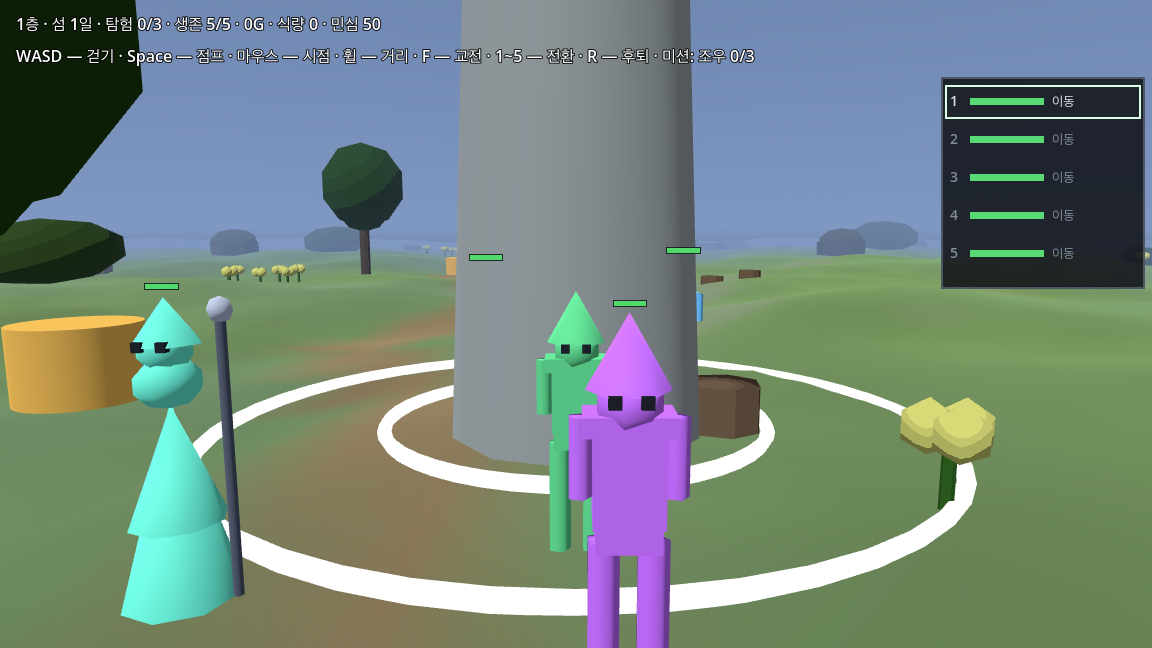
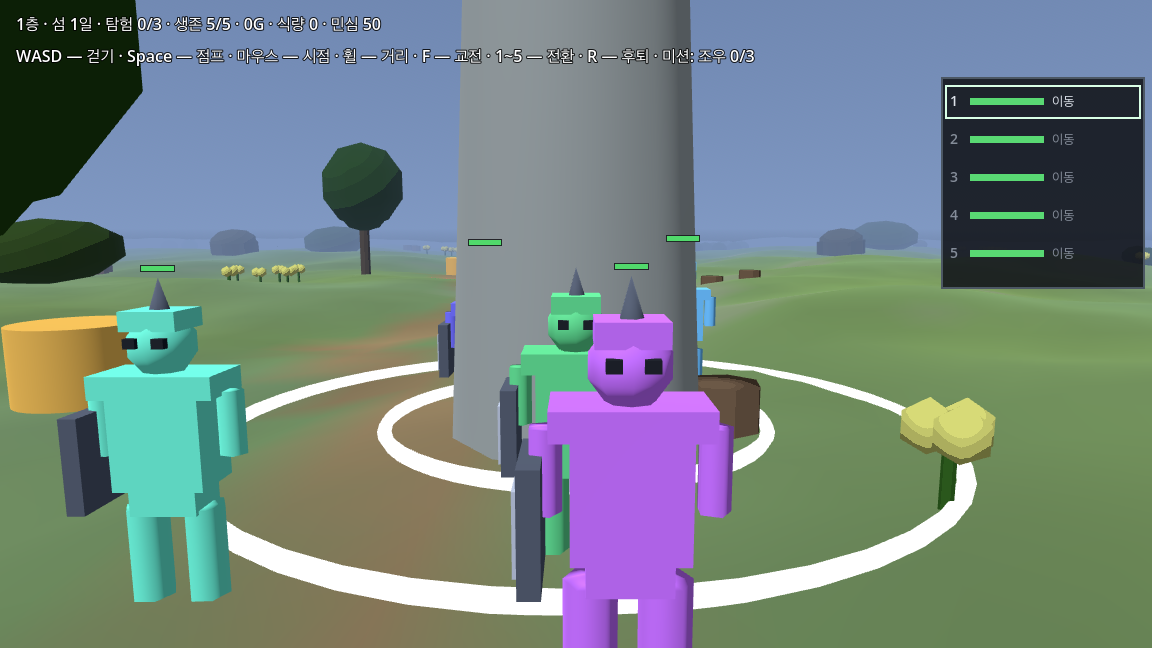
파티 직업을 역할로 나눠 뽑고 엔딩 패널 촬영을 붙인다
`keyword_jobs` 가 트리 앞에서 다섯을 집어 전원이 선봉이 되던 것을, 역할별로
한 명씩 먼저 뽑게 바꾼다. 역할 순서와 역할 안 순서를 시드로 섞어 같은 판은
같은 파티가 되고(세이브가 시드로 영웅을 다시 만든다), 역할이 모자라면
돌아가며 두 번째를 채운다.

엔딩 패널을 찍는 `shot_ending` 과 화면 캡처, 파티가 3장 곱을 받는지 보는
`test_run_state` 검사를 함께 넣는다.

검증(새 워크트리, 이 커밋 그대로):
  tools/gate_all.py     → GATE ALL OK ([PASS] 29)
  ./tools/test_godot.sh → 586 tests, 586 passing

편집은 이 커밋 이후에도 이어진다.

Generated with Codebuff 🤖

diff --git a/docs/design/이데아_문턱_엔딩전투_설계.md b/docs/design/이데아_문턱_엔딩전투_설계.md
@@ -119,8 +119,9 @@ godot --headless --path godot -s tools/floor_report.gd -- --gk --grade=7 --party
 | `godot/core/floor_run.gd` | `build_gatekeeper` 가 바이옴을 넘긴다 — 편성도 같은 선택을 따른다 |
 | `godot/core/field_state.gd` | 문턱층에서 `engage()` 가 문지기 판을 연다 · `mission_done()` = 격파(문지기 없으면 통과) · `next_floor()` 가 그 값을 읽는다 · `claim_gatekeeper_loot()` 이 첫 격파 전리품을 정한다 · `ending`·`rewarded` 를 저장·복원한다 · `floor_progress()` 로 HUD 표기 |
 | `godot/core/save.gd` | `RUN_KEYS` 에 `ending`·`rewarded` — 화이트리스트가 새 키를 막지 않게 |
-| `godot/game/main/main.tscn` | `Hud/EndingPanel` — 문턱을 넘은 순간에만 뜨는 화면(제목·한 줄·R 안내) |
-| `godot/game/main/main.gd` | F 의도 — 조우 접촉이 없어도 `gatekeeper_ready()` 면 교전 · `first_clear` 면 `loot.gold` 를 지갑에 넣는다. HUD 는 `탐험 0/3` 대신 문지기 이름 |
+| `godot/game/main/main.tscn` | `Hud/EndingPanel` — 문턱을 넘은 순간에만 뜨는 화면(제목·요약 한 줄·R 안내 · 배경 딤 0.9) |
+| `godot/tools/shot_ending.gd` | 엔딩 상태를 만들어 화면을 `godot/screenshots/ending_panel.png` 로 남기는 하네스 |
+| `godot/game/main/main.gd` | F 의도 — 조우 접촉이 없어도 `gatekeeper_ready()` 면 교전 · `first_clear` 면 `loot.gold` 를 지갑에 넣는다 · 엔딩 화면을 띄우고 마지막 판 요약(`last_gatekeeper`)을 적는다. HUD 는 `탐험 0/3` 대신 문지기 이름 |
 | `godot/tools/floor_report.gd` | `--gk` 도 바이옴을 넘긴다 — 130 측정이 정본을 따른다 |
 
 **바뀌지 않은 것**: `explore.gd`(이미 조우 0) · `day.gd`(하루 루프는 0조우라 그냥 안 돈다) · `run_state.gd`(측정 심) · `data/` 전부.
@@ -131,14 +132,15 @@ godot --headless --path godot -s tools/floor_report.gd -- --gk --grade=7 --party
 - `test_floor_run` — `build_gatekeeper(130)` 이 무문 1체
 - `test_field_party` — 129 즉시 통과·다음 층 · 128 은 격파 전 진행 없음·F 가 판을 엶 · 격파했을 때만 `mission_done` · 130 스냅샷 이름 · 126 첫 격파 지급액 3,410 과 두 번째 격파 빈손
 - `test_save` — 126 격파 저장본을 불러와도 전리품 빈손 · 130 엔딩 저장본은 문지기가 다시 서지 않고 힌트가 문턱을 알린다 · 화이트리스트가 `ending`·`rewarded` 를 통과
-- `test_main` — 엔딩 화면은 처음엔 숨고 문턱 상태에서 한 번만 뜬다 · R 이 화면을 닫고 1층 새 런을 연다
+- `test_main` — 엔딩 화면은 처음엔 숨고 문턱 상태에서 한 번만 뜬다 · 요약 줄이 턴·생존·전리품을 적는다 · R 이 화면을 닫고 1층 새 런을 연다
+- `test_field_party` — 126 판이 `last_gatekeeper` 에 이름·턴·생존·전리품을 남긴다
 
 **아직 안 넣은 것**
 
 | 것 | 왜 지금 안 넣나 |
 |---|---|
 | 영혼·exp 지급 | 받을 곳이 없다 — 지갑은 `gold` 하나뿐이다. 로그에만 적는다 |
-| 엔딩 연출 | 화면은 제목·한 줄·R 안내까지다 — 컷신·BGM·업적은 별개 |
+| 엔딩 연출 | 화면은 제목·요약 한 줄·R 안내까지다 — 컷신·BGM·업적은 별개 |
 | 130 격파 후 버튼 | `MAX_FLOOR` 라 `next_floor()` 가 false — 지금은 문턱 상태에서 멈춘다 |
 | 패배 시 층 유지 재도전 | 기존 R 은 전멸 시 1층 재시작이다. 이 층만 재도전하게 하려면 부활 규칙이 필요하다 |
 
@@ -165,4 +167,6 @@ godot --headless --path godot -s tools/floor_report.gd -- --gk --grade=7 --party
 - 전투는 `FonsFloorRun.simulate_gatekeeper` 그대로다. 문지기 전용 연출·패턴 발동은 필드에 없다 — 한 판이 로그 몇 줄로 끝난다.
 - 첫 격파 기억은 세이브에 남지만 `restart()`(새 런)에서 비운다. 새 런으로 문턱을 다시 오르면 전리품을 또 받는다 — 의도된 동작이다.
 - 엔딩 화면은 HUD 위 한 장이다. 뷰(2D·3D)가 아니라 `main.gd` 가 띄우므로 모드와 무관하게 같게 뜬다.
+- 배치는 실제 창에서 확인했다 (`shot_ending.gd` → [ending_panel.png](../../godot/screenshots/ending_panel.png)). 배경 딤을 0.78 → 0.9 로 올린 이유는 그 화면이다 — HUD·체력바가 제목과 섞였다.
+- 요약은 `last_gatekeeper` 한 판 기록이다 — 저장하지 않는다. 이어하기로 130 에 들어오면 숫자 없이 이름만 적는다.
 - 엔딩 화면은 **격파 순간 한 번**만 뜬다(`_ending_shown`). 저장된 기록만으로 다시 뜨지 않는다 — 이어하기로 들어온 130 은 힌트(`문턱을 넘었다`)만 말한다.

diff --git a/docs/design/바이옴_에셋_계획.md b/docs/design/바이옴_에셋_계획.md
@@ -261,7 +261,8 @@ godot/assets/art/models/          # 결과물 (.glb) + .import 커밋
   - **흐림(카메라 근접)** — 표면 덮개 대신 노드 덮개(`material_override`)를 쓴다. `eye_dark` 에 표면 덮개를 걸면 헤드리스 더미 렌더러가 해제 중 `Parameter "material" is null` 을 두 줄 찍는다(실측). 알파 0 이면 덮개를 걷어 표면 틴트를 되돌린다.
   - 등록한 메시 자산(`register_asset`)은 대역 몸통보다 먼저다 — 손으로 건 메시를 기본 몸통이 덮지 않는다.
   - 검증: 게이트 `heroart`(결과물 = 생성물) · `heroassets`(직업 표 드리프트) · GUT `test_hero_body.gd` 8건 — 부품 5노드 임포트 · 키가 항상 같은 대역 · 표의 34직업이 제 대역을 입음 · 역할이 실루엣을 가름 · 틴트 경계 · 흐림이 색을 지키고 눈까지 덮음 · 뷰가 씬을 붙이고 HP 바 높이를 실제 키로 잡음 · 죽은 영웅이 어두워짐. 실렌더 [heroes3d.png](../../godot/screenshots/heroes3d.png) — 세로 = 대역, 가로 = 영웅 색 넷.
-  - 남은 것: 걷기·공격 모션 · 같은 대역끼리는 색만 다르므로 어깨 장식·투구로 더 가르는 일.
+  - **표를 끼우고 드러난 것** — 필드 파티가 `keyword_jobs` 로 직업 트리 **앞의 L2 다섯**을 그대로 뽑아서(라이브 확인: `l2_breaker`·`l2_vengeance_knight`·`l2_fighter`·`l2_swordsman`·`l2_spirit_knight`) 전원이 선봉이다. 해시 대역 때는 세 실루엣으로 흔들렸지만 그건 역할과 무관한 거짓 다양성이었고, 지금은 다섯이 가드 실루엣에 색으로만 갈린다. 파티 편성이 역할을 섞어야 이 화면이 산다 — 실루엣을 늘리는 것으로 풀 문제가 아니다.
+  - 남은 것: 걷기·공격 모션 · 같은 대역끼리는 색만 다르므로 어깨 장식·투구로 더 가르는 일 · 파티 직업 편성(`keyword_jobs`)이 선봉에 몰리는 문제.
 - **S3에서 S5를 건너뛸 수 있는가**: 회색 박스만으로도 "26바이옴이 다르게 읽히는가"는 판정된다. 안 읽히면 라이팅을 더해도 안 읽힌다 — 그래서 S3가 S4의 관문이다.
 - **하지 않는 것**: 377종 전량, 바이옴 전용 지형 26벌, 상층 슬롯 22~24 생태 재검토(이미 `upperEcologyStatus` 로 재검토 상태다).
 

diff --git a/godot/assets/README.md b/godot/assets/README.md
@@ -63,5 +63,7 @@ assets/
 영웅 몸통도 **3벌**이다 — `hero_guard` · `hero_scout` · `hero_mystic`
 (`art/models/hero_<band>.glb`). 생성기는 [`tools/gen_hero_glb.py`](../../tools/gen_hero_glb.py),
 드리프트는 게이트 `heroart` 가 막고, 런타임 해석은
-[hero_body.gd](../game/view/view_3d/hero_body.gd) 이 진다. 부품 다섯(`body_hide` · `skin_limb` ·
+[hero_body.gd](../game/view/view_3d/hero_body.gd) 이 진다. 어느 직업이 어느 벌을 입는지는
+`data/hero_assets.json` 이 정한다 — 생성기 [`tools/gen_hero_assets.py`](../../tools/gen_hero_assets.py),
+드리프트는 게이트 `heroassets` 가 막는다. 부품 다섯(`body_hide` · `skin_limb` ·
 `gear_metal` · `gear_shine` · `eye_dark`)이 계약이고 틴트는 `body_`·`skin_`·`head_` 만 바꾼다.
